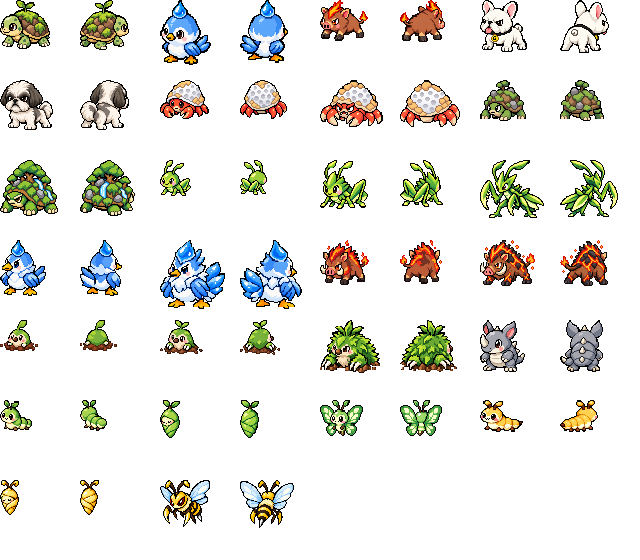
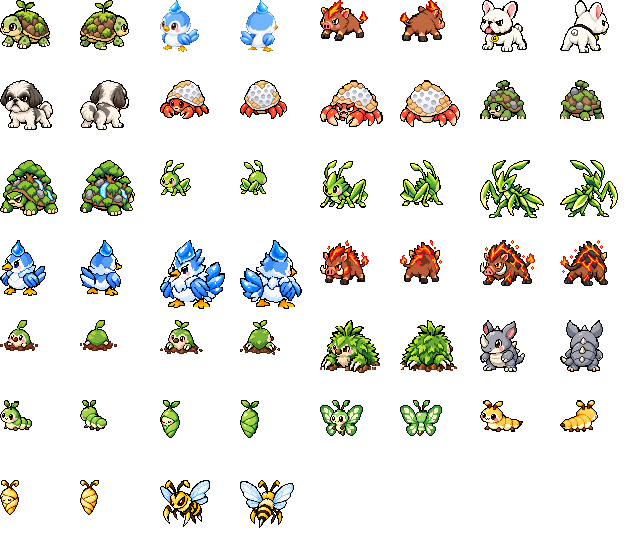
アメピヨをイラスト版から取り込み（tools/pair-sprite.py に --smooth --h=N：ドット絵でない絵を縮小してドット化）
Claude-Session: https://claude.ai/code/session_018VDSYCPciSbMvR8kKaJDnr

Changed region(s): [[0.375, 0.0, 0.4688, 0.1214], [0.25, 0.0, 0.3438, 0.1214]]

diff --git a/tools/pair-sprite.py b/tools/pair-sprite.py
@@ -8,6 +8,8 @@ from PIL import Image
 from collections import deque
 
 mid, path = sys.argv[1], sys.argv[2]
+SMOOTH = '--smooth' in sys.argv          # ドット絵でない絵：格子検出をせず、縮小してドット化する
+SMOOTH_H = int([a for a in sys.argv if a.startswith('--h=')][0][4:]) if any(a.startswith('--h=') for a in sys.argv) else 56
 im = Image.open(path).convert('RGBA'); a = np.array(im); H, W = a.shape[:2]
 if a[:, :, 3].min() == 255:
     # チェッカー背景：明るくて彩度の低い画素を、外側からの塗りつぶしで背景にする
@@ -83,9 +85,16 @@ def grid_offset(arr, axis, p):
         if best is None or sc > best[0]: best = (sc, off)
     return best[1]
 _whole = np.array(im).astype(float)
-PX, PY = grid_period(_whole, 1), grid_period(_whole, 0)
-print('grid', PX, PY)
+PX = PY = 1
+if not SMOOTH:
+    PX, PY = grid_period(_whole, 1), grid_period(_whole, 0)
+    print('grid', PX, PY)
 def to_native(img):
+    if SMOOTH:
+        img = img.crop(img.getbbox()); k = SMOOTH_H / img.height
+        o = img.resize((max(1, round(img.width * k)), SMOOTH_H), Image.LANCZOS)
+        a2 = np.array(o); a2[a2[:, :, 3] < 128] = 0; a2[a2[:, :, 3] >= 128, 3] = 255
+        return Image.fromarray(a2, 'RGBA')
     arr = np.array(img).astype(float); H, W = arr.shape[:2]
     px, py = PX, PY; ox = grid_offset(arr, 1, px); oy = grid_offset(arr, 0, py)
     cols = int((W - ox) // px); rows = int((H - oy) // py)
